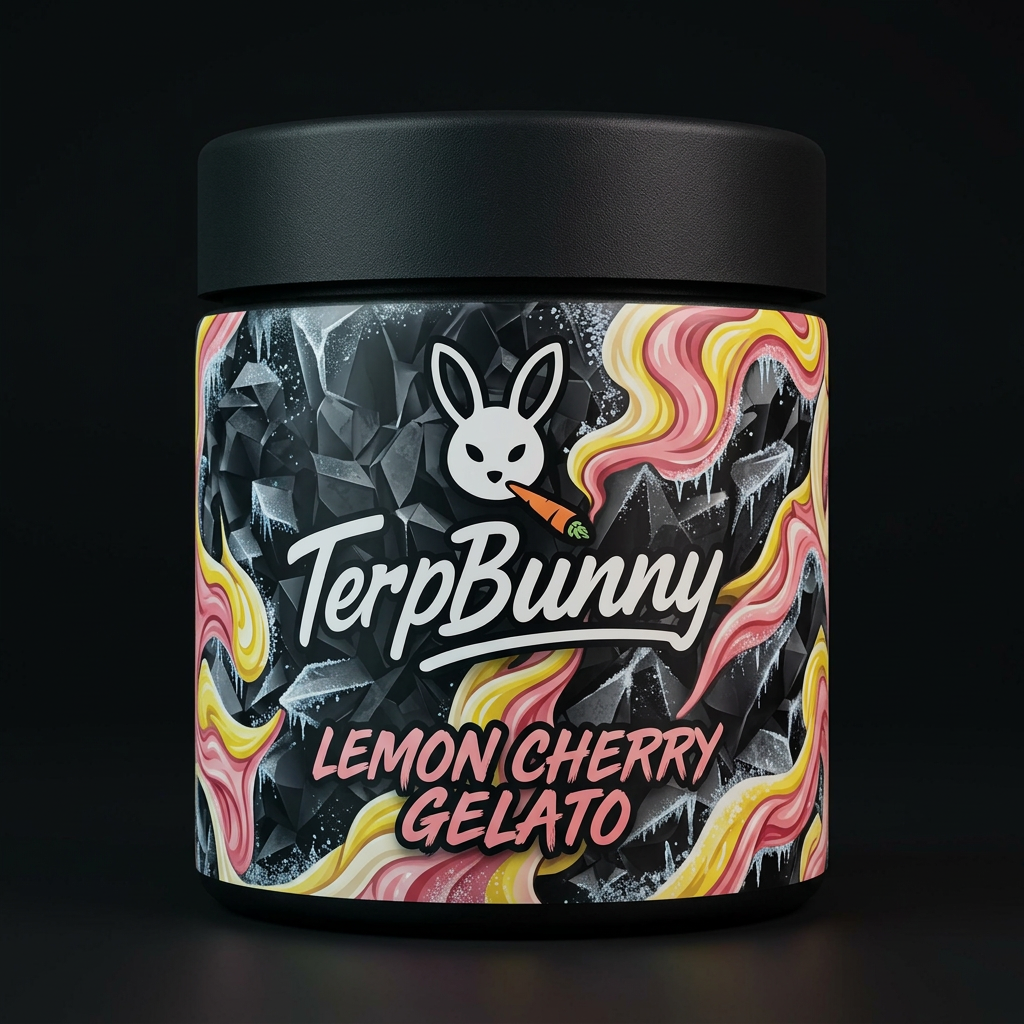
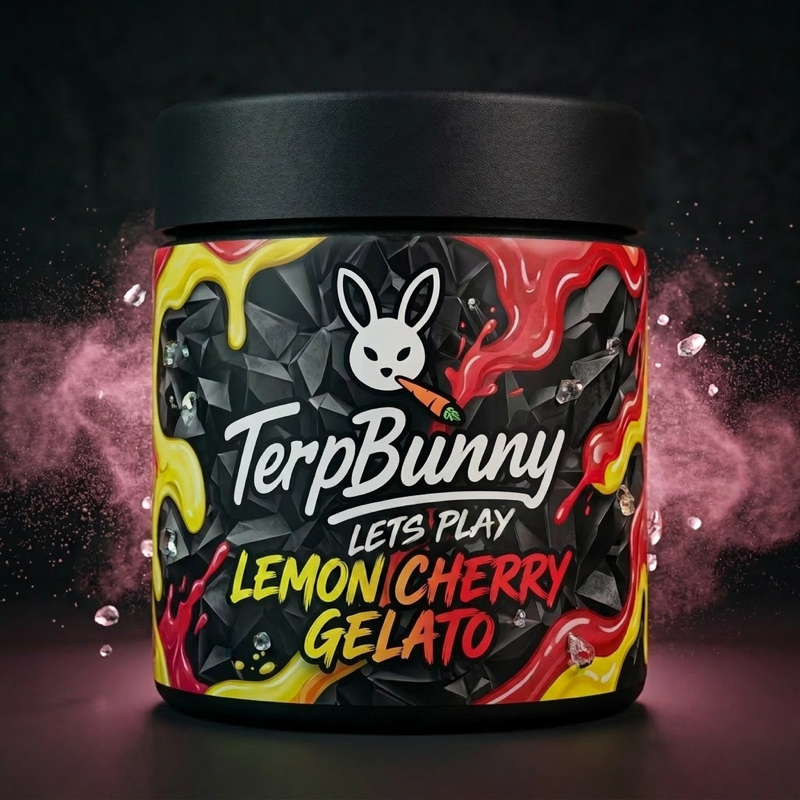
Replace 5 jar images with LETS PLAY branding + add images to homepage
Updated Garlic Cookies, La Rosa, Medusa, Lemon Cherry Gelato, and Wedding Cake
with new LETS PLAY branded jar photos. Homepage now shows actual jar images instead
of letter placeholders, cards link to detail pages, strain count bumped to 22.

diff --git a/src/app/page.tsx b/src/app/page.tsx
@@ -1,17 +1,38 @@
 import Image from "next/image";
 import Link from "next/link";
 
+const STRAIN_IMAGES: Record<string, string> = {
+  "apples-n-juice": "/images/apples-n-juice.png",
+  "garlic-cookies": "/images/garlic-cookies.png",
+  "la-rosa": "/images/la-rosa.png",
+  "lemon-cherry-gelato": "/images/lemon-cherry-gelato.png",
+  "lemon-drop": "/images/lemon-drop.png",
+  "runtz": "/images/runtz.png",
+  "tamalez": "/images/tamalez.png",
+  "tear-gas": "/images/tear-gas.png",
+  "rancid-rainbows": "/images/rancid-rainbows.png",
+  "wedding-cake": "/images/wedding-cake.png",
+  "animal-heat": "/images/animal-heat.png",
+  "baby-zereal": "/images/baby-zereal.png",
+  "medusa": "/images/medusa.png",
+  "project-z": "/images/project-z.png",
+  "sherbert-pie": "/images/sherbert-pie.png",
+  "sour-cream": "/images/sour-cream.jpeg",
+  "georgia-heat": "/images/georgia-heat.png",
+  "bubble-gum-runtz": "/images/bubble-gum-runtz.png",
+};
+
 const FEATURED_STRAINS = [
   { name: "Garlic Cookies", type: "Indica", thc: "35%", price: "$12.50", slug: "garlic-cookies", color: "#ff4da6" },
-  { name: "Medusa", type: "Hybrid", thc: "34%", price: "$12.50", slug: "medusa", color: "#39ff14" },
-  { name: "Project Z", type: "Sativa", thc: "33%", price: "$12.50", slug: "project-z", color: "#00e5ff" },
-  { name: "Animal Heat", type: "Hybrid", thc: "32%", price: "$12.50", slug: "animal-heat", color: "#39ff14" },
-  { name: "Tear Gas", type: "Sativa", thc: "32%", price: "$12.50", slug: "tear-gas", color: "#00e5ff" },
+  { name: "Medusa", type: "Indica", thc: "34%", price: "$12.50", slug: "medusa", color: "#ff4da6" },
+  { name: "Wedding Cake", type: "Hybrid", thc: "32%", price: "$12.50", slug: "wedding-cake", color: "#39ff14" },
+  { name: "La Rosa", type: "Hybrid", thc: "28%", price: "$12.50", slug: "la-rosa", color: "#39ff14" },
+  { name: "Lemon Cherry Gelato", type: "Hybrid", thc: "30%", price: "$12.50", slug: "lemon-cherry-gelato", color: "#39ff14" },
   { name: "Runtz", type: "Hybrid", thc: "31%", price: "$12.50", slug: "runtz", color: "#39ff14" },
 ];
 
 const STATS = [
-  { value: "17+", label: "Premium Strains" },
+  { value: "22+", label: "Premium Strains" },
   { value: "35%", label: "Max THC" },
   { value: "100%", label: "Lab Tested" },
   { value: "OK", label: "Licensed" },
@@ -98,39 +119,50 @@ export default function Home() {
 
         <div className="tb-product-grid">
           {FEATURED_STRAINS.map((strain) => (
-            <div key={strain.slug} className="tb-product-card">
-              <div className="tb-product-card__image" style={{ background: "#111" }}>
-                {/* Placeholder gradient for product images */}
-                <div style={{
-                  position: "absolute", inset: 0,
-                  background: `radial-gradient(circle at 50% 60%, ${strain.color}15, transparent 70%)`,
-                  display: "flex", alignItems: "center", justifyContent: "center",
-                }}>
-                  <span style={{ fontSize: "48px", opacity: 0.15, fontWeight: 900 }}>
-                    {strain.name.charAt(0)}
-                  </span>
+            <Link key={strain.slug} href={`/strains/${strain.slug}`} style={{ textDecoration: "none", color: "inherit" }}>
+              <div className="tb-product-card">
+                <div className="tb-product-card__image" style={{ background: "#111", position: "relative", overflow: "hidden" }}>
+                  {STRAIN_IMAGES[strain.slug] ? (
+                    <Image
+                      src={STRAIN_IMAGES[strain.slug]}
+                      alt={strain.name}
+                      fill
+                      style={{ objectFit: "cover" }}
+                      sizes="(max-width: 768px) 100vw, 33vw"
+                    />
+                  ) : (
+                    <div style={{
+                      position: "absolute", inset: 0,
+                      background: `radial-gradient(circle at 50% 60%, ${strain.color}15, transparent 70%)`,
+                      display: "flex", alignItems: "center", justifyContent: "center",
+                    }}>
+                      <span style={{ fontSize: "48px", opacity: 0.15, fontWeight: 900 }}>
+                        {strain.name.charAt(0)}
+                      </span>
+                    </div>
+                  )}
+                  <div className="tb-product-card__badge" style={{ color: typeColor(strain.type) }}>
+                    {strain.thc} THC
+                  </div>
                 </div>
-                <div className="tb-product-card__badge" style={{ color: typeColor(strain.type) }}>
-                  {strain.thc} THC
+                <div className="tb-product-card__content">
+                  <div className="tb-product-card__name">{strain.name}</div>
+                  <div style={{ fontSize: "13px", color: typeColor(strain.type), fontWeight: 600, marginTop: "6px" }}>
+                    {strain.type}
+                  </div>
+                  <div className="tb-product-card__meta">
+                    <span className="tb-product-card__price">{strain.price} / 8th</span>
+                    <span className="tb-product-card__cta">View Details &rarr;</span>
+                  </div>
                 </div>
               </div>
-              <div className="tb-product-card__content">
-                <div className="tb-product-card__name">{strain.name}</div>
-                <div style={{ fontSize: "13px", color: typeColor(strain.type), fontWeight: 600, marginTop: "6px" }}>
-                  {strain.type}
-                </div>
-                <div className="tb-product-card__meta">
-                  <span className="tb-product-card__price">{strain.price} / 8th</span>
-                  <span className="tb-product-card__cta">View Details &rarr;</span>
-                </div>
-              </div>
-            </div>
+            </Link>
           ))}
         </div>
 
         <div style={{ textAlign: "center", marginTop: "56px" }}>
           <Link href="/strains" className="tb-btn tb-btn--outline">
-            View All 17 Strains &rarr;
+            View All 22 Strains &rarr;
           </Link>
         </div>
       </section>
